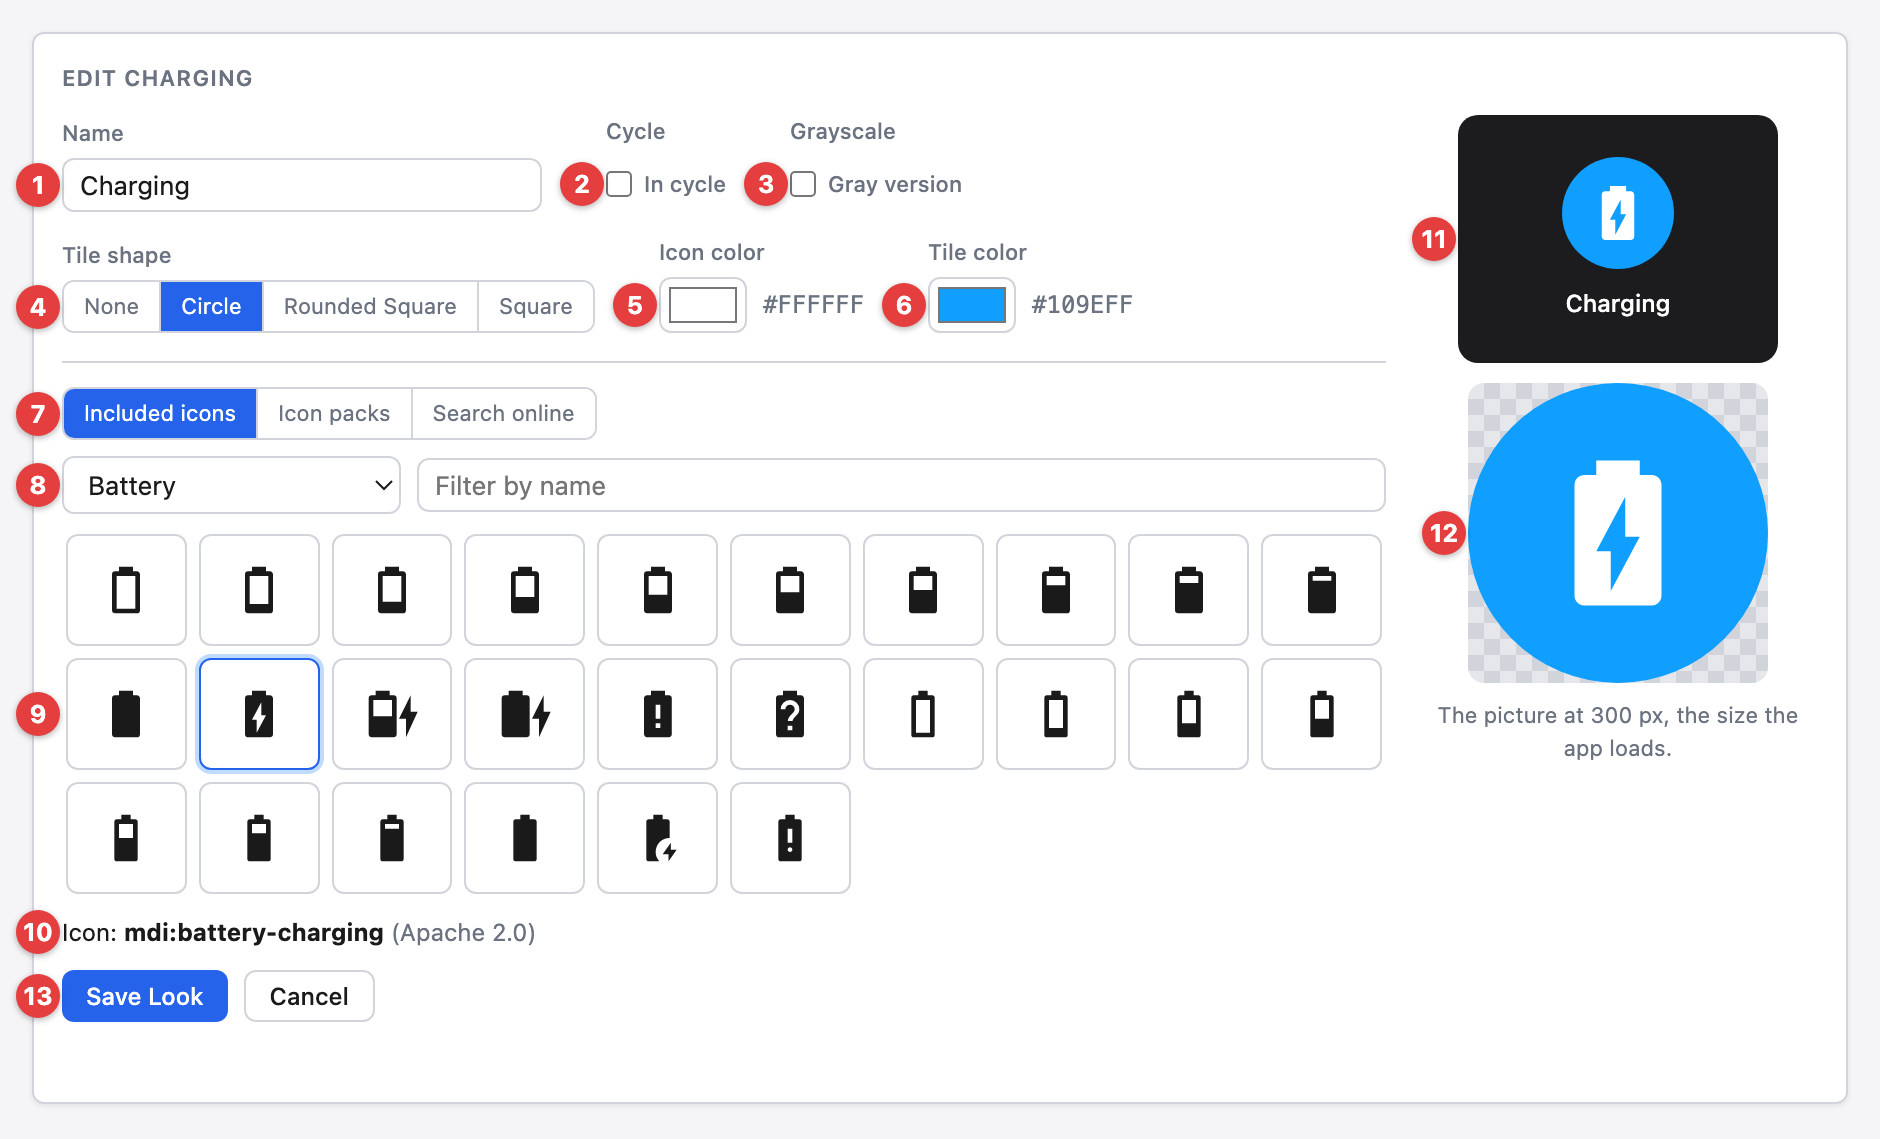
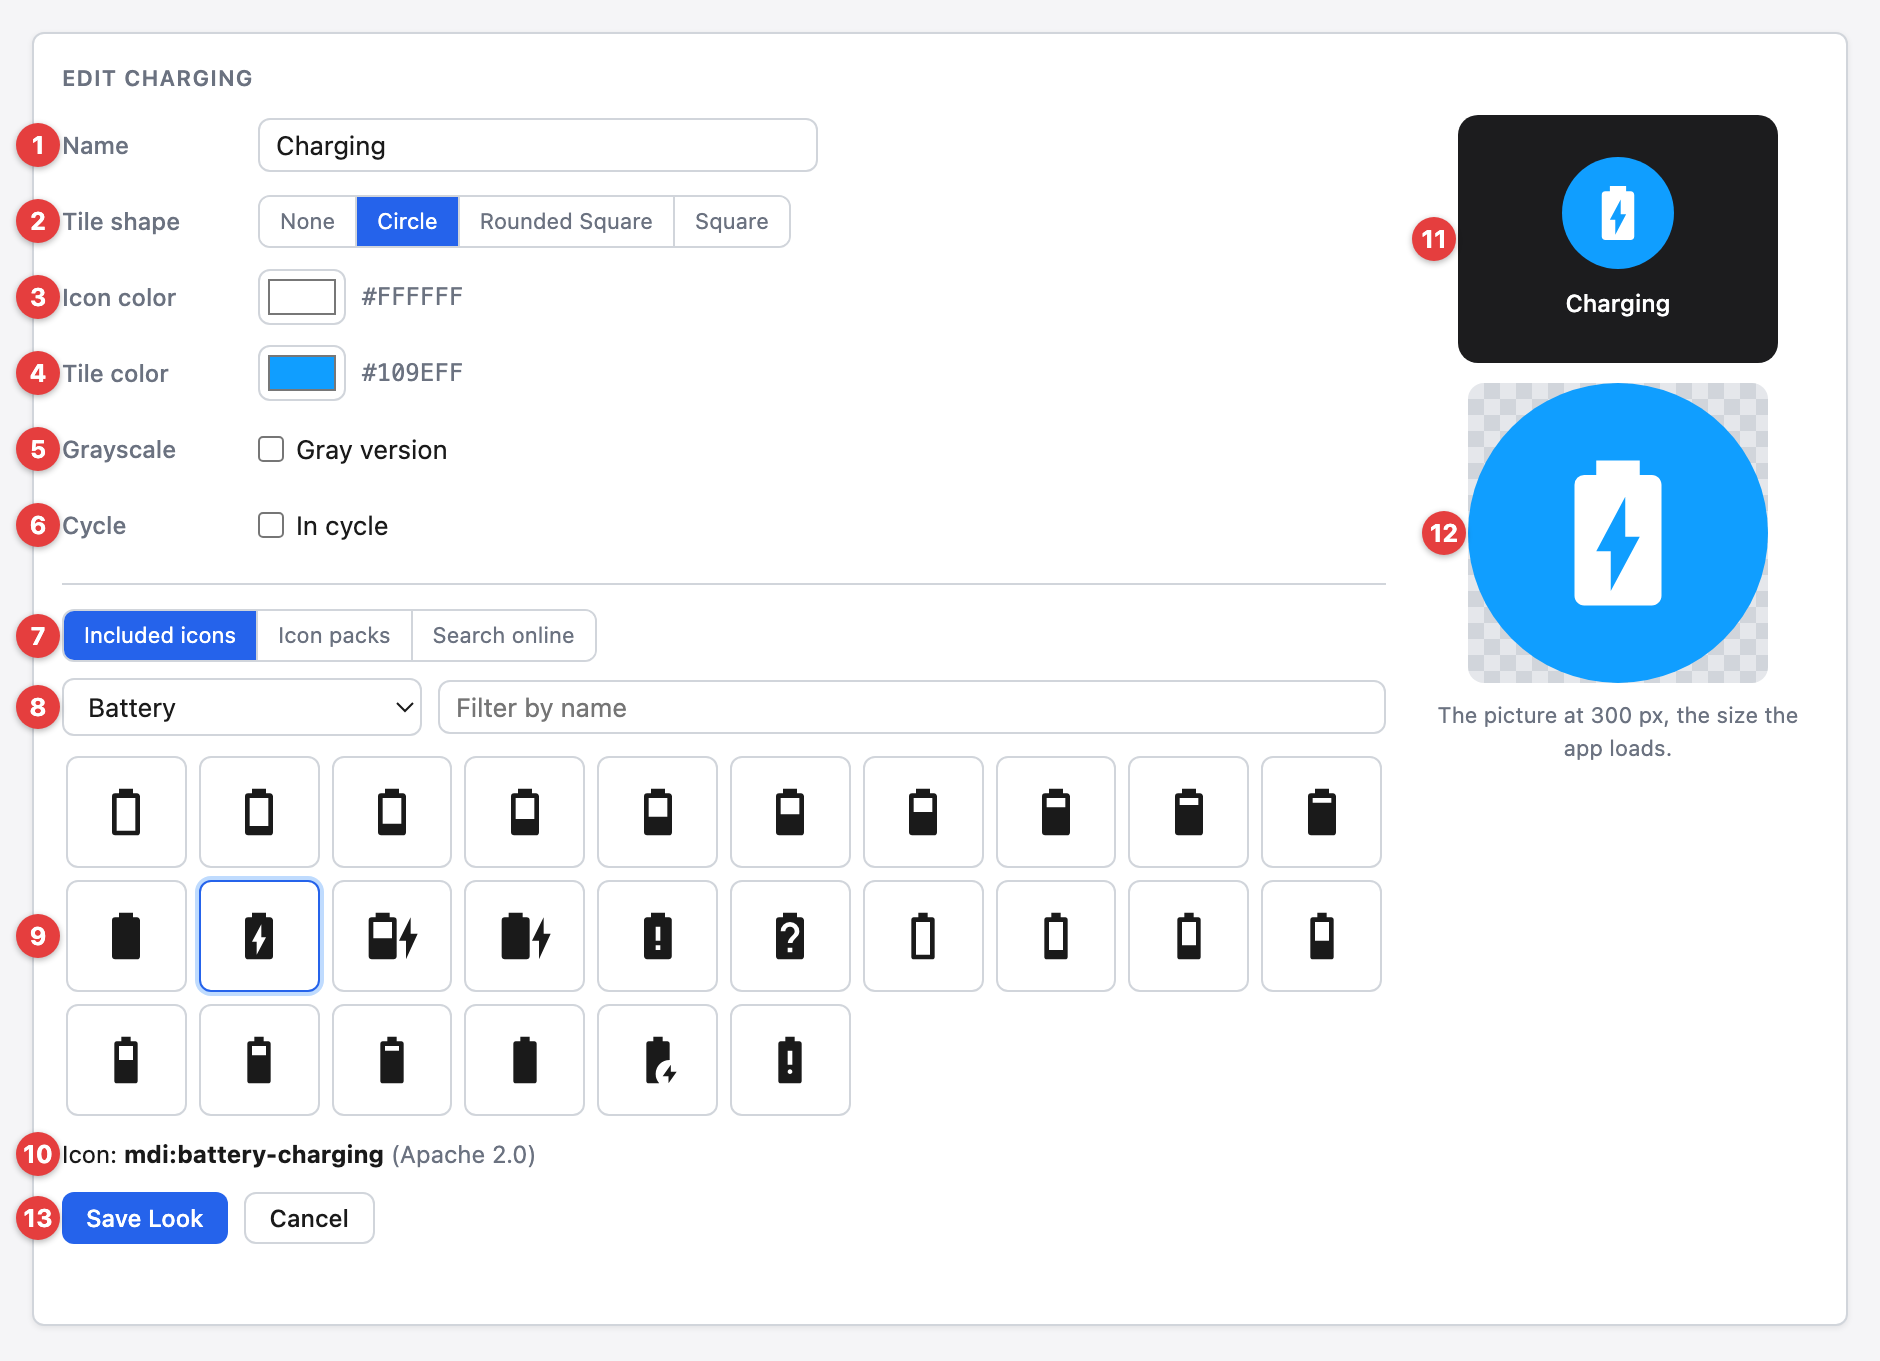
docs: regenerate README

diff --git a/README.md b/README.md
@@ -133,16 +133,16 @@ the button's looks.
 1. **Name** - the look's name in programming: up to 40 characters, without
    commas, and different from the button's other looks. Picking an icon fills it
    in when it is empty.
-1. **In cycle** - when off, presses, Next Look and Previous Look pass over the
-   look. Show Look can still show it.
-1. **Grayscale** - draws the picture in grays, its tile too, which gives any
-   picture a gray version for an off look beside the packs' own on and off
-   pictures. A gray picture has no glow, and the look keeps its `Glow` setting
-   for when `Grayscale` is turned off again.
 1. **Tile shape** - `None`, `Circle`, `Rounded Square` or `Square`. With `None`
    the icon is drawn on its own, larger, and `Tile color` is hidden.
 1. **Icon color** - the color the icon is drawn in.
 1. **Tile color** - the color of the tile behind the icon.
+1. **Grayscale** - draws the picture in grays, its tile too, which gives any
+   picture a gray version for an off look beside the packs' own on and off
+   pictures. A gray picture has no glow, and the look keeps its `Glow` setting
+   for when `Grayscale` is turned off again.
+1. **Cycle** - with `In cycle` off, presses, Next Look and Previous Look pass
+   over the look. Show Look can still show it.
 1. **Included icons / Icon packs / Search online** - picks from the icons
    included with the driver, which work with no internet, from the driver's
    three icon packs (see [Icon Packs](#icon-packs)), or from the free icon packs
